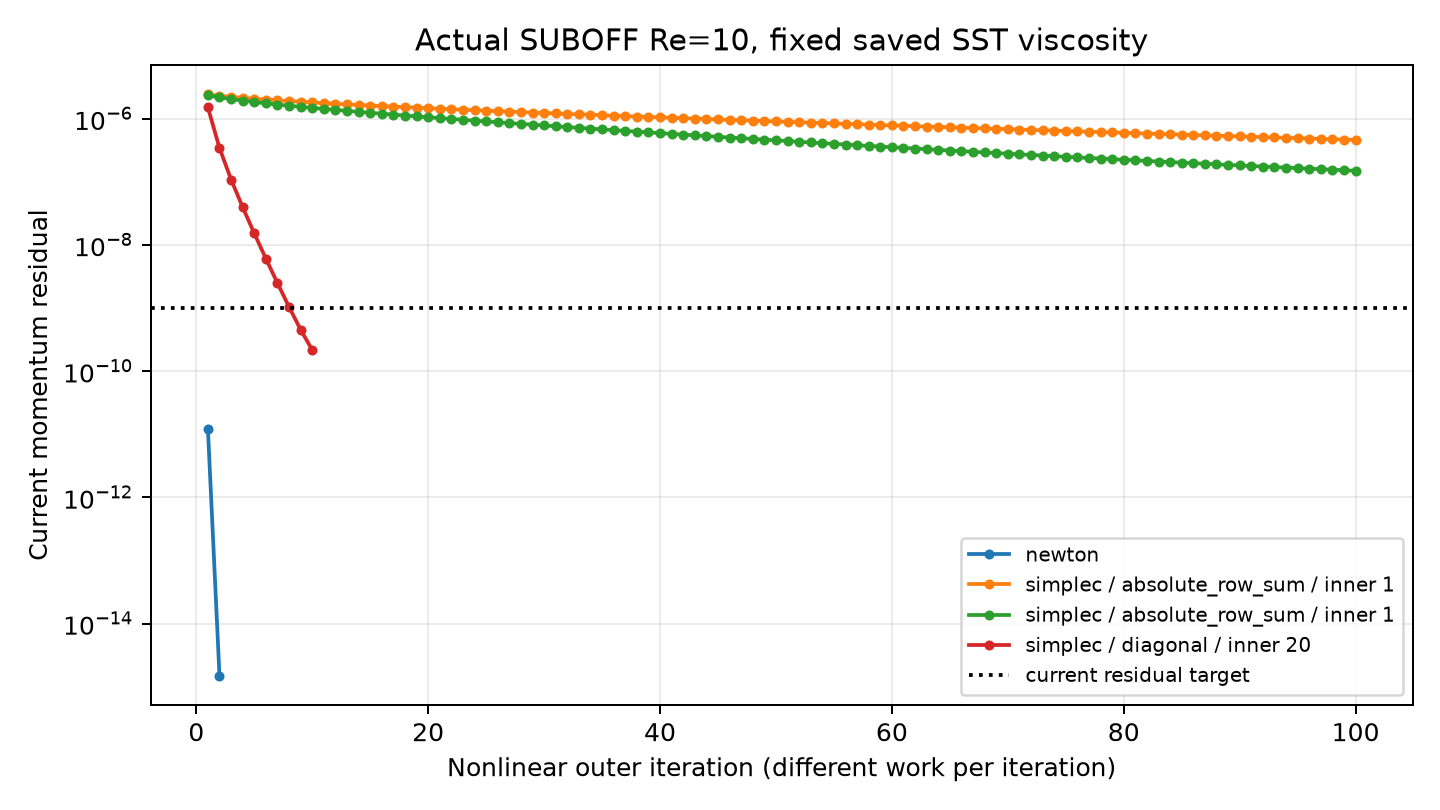
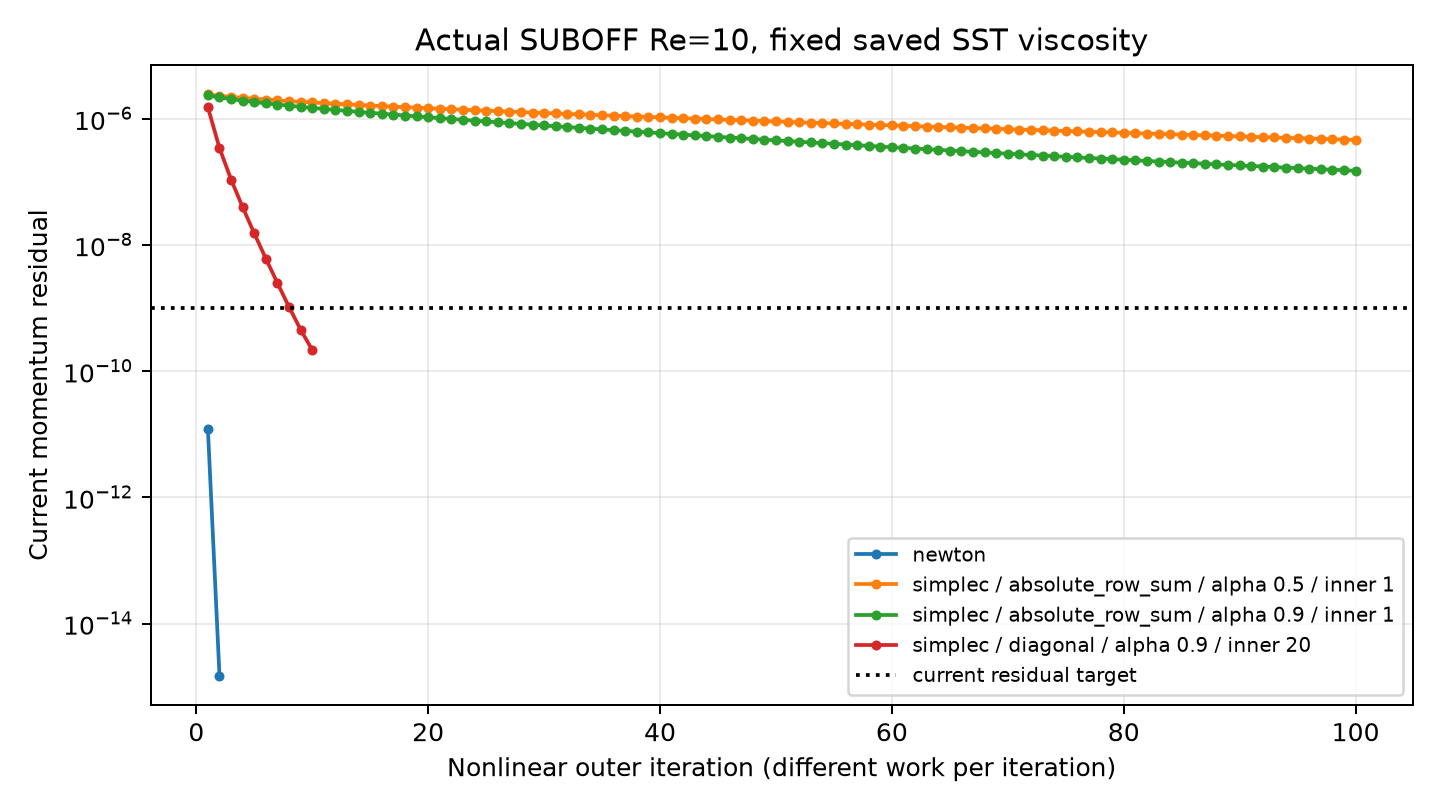
Distinguish relaxation values in SUBOFF comparison plot legend

Changed region(s): [[0.5938, 0.6481, 0.9062, 0.8642]]

diff --git a/docs/verification-native-suboff-sst-startup/frozen-momentum-four-way/reporter.py b/docs/verification-native-suboff-sst-startup/frozen-momentum-four-way/reporter.py
@@ -91,7 +91,7 @@ def main():
     for row in records:
         h=row['history'];label=row['settings']['algorithm']
         if label!='newton':
-            label+=f" / {row['settings'].get('relaxation_basis','absolute_row_sum')} / inner {row['settings'].get('inner_iterations',1)}"
+            label+=f" / {row['settings'].get('relaxation_basis','absolute_row_sum')} / alpha {row['settings']['relaxation']} / inner {row['settings'].get('inner_iterations',1)}"
         ax.semilogy([x['iteration'] for x in h],[x['current_momentum_residual'] for x in h],'.-',label=label)
     ax.axhline(1e-9,color='k',linestyle=':',label='current residual target')
     ax.set(xlabel='Nonlinear outer iteration (different work per iteration)',ylabel='Current momentum residual',

diff --git a/scripts/report_native_suboff_momentum_comparison.py b/scripts/report_native_suboff_momentum_comparison.py
@@ -91,7 +91,7 @@ def main():
     for row in records:
         h=row['history'];label=row['settings']['algorithm']
         if label!='newton':
-            label+=f" / {row['settings'].get('relaxation_basis','absolute_row_sum')} / inner {row['settings'].get('inner_iterations',1)}"
+            label+=f" / {row['settings'].get('relaxation_basis','absolute_row_sum')} / alpha {row['settings']['relaxation']} / inner {row['settings'].get('inner_iterations',1)}"
         ax.semilogy([x['iteration'] for x in h],[x['current_momentum_residual'] for x in h],'.-',label=label)
     ax.axhline(1e-9,color='k',linestyle=':',label='current residual target')
     ax.set(xlabel='Nonlinear outer iteration (different work per iteration)',ylabel='Current momentum residual',
